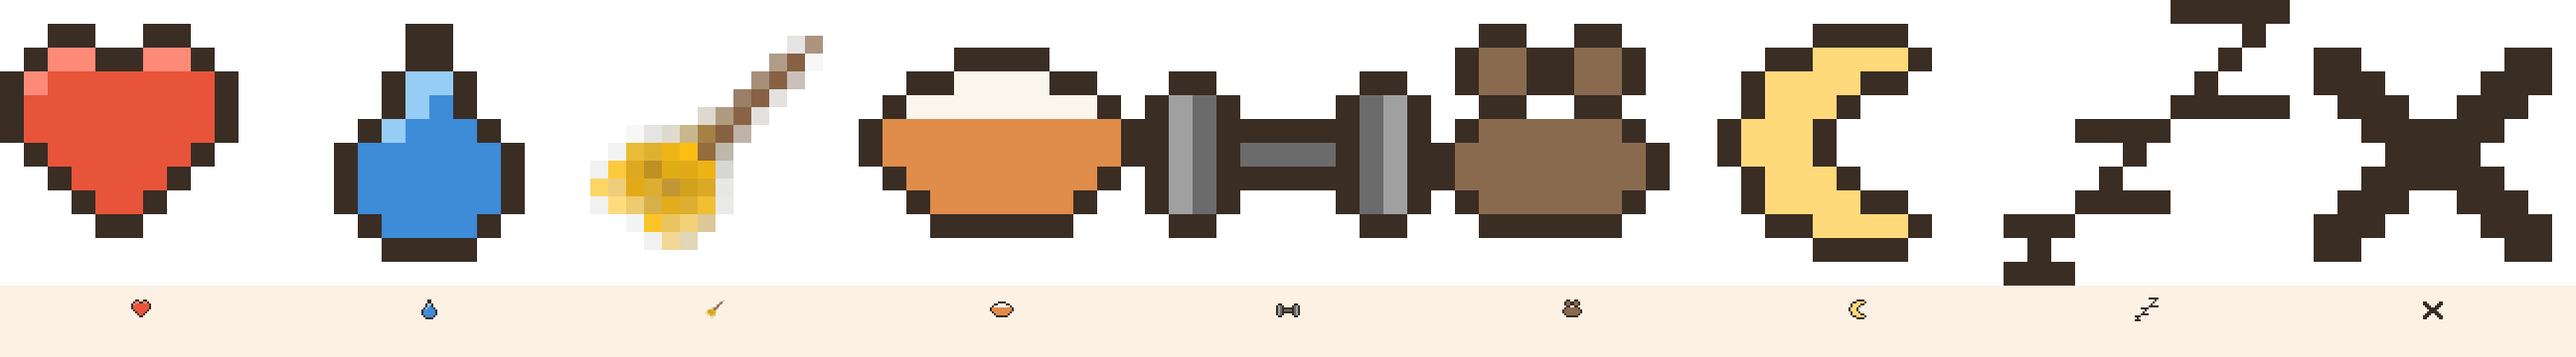
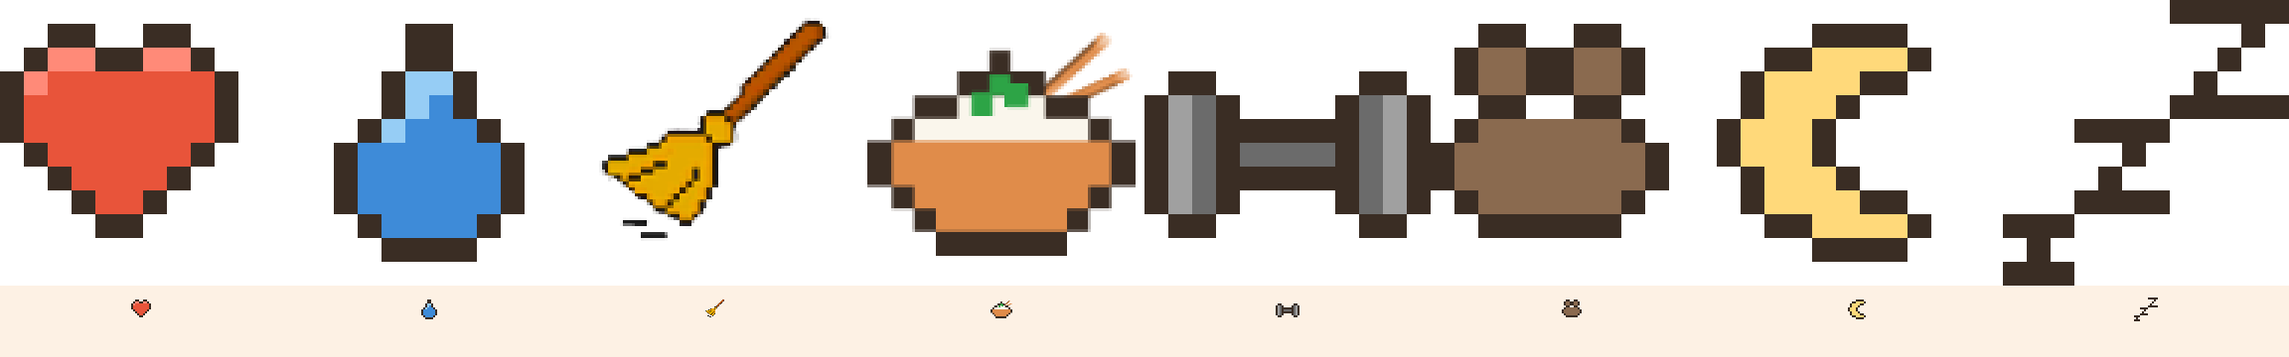
Las cinco siluetas se van con sus dibujos, y la equis se borra
Limpieza de las dos cosas que llevaban dias anotadas en TODO.md como
codigo muerto. Ninguna fallaba: las dos MENTIAN, que es peor, porque
quien las lea dentro de seis meses se cree que sirven para algo.

LAS CINCO SILUETAS eran la otra mitad de una retirada a medias. Los 16
PNG de los cuatro cuerpos sobrantes se fueron a _CUARENTENA el
2026-09-09; las REJILLAS no. `pixel/michis.js` siguio cuatro dias
exportando esos mismos cuerpos como texto de 32x32 y compilandose con la
app, y `Tamagotchi.jsx` hacia `MICHIS[estado] ?? MICHIS.kawaii` en cada
render: se leian SIEMPRE y se pintaban NUNCA, porque el dibujo estaba
tras un `!sinMichi` y el unico sitio que monta ese componente pasa
siempre `sinMichi`.

Van a _CUARENTENA/cuerpos-antiguos/, con los dibujos que les
corresponden, y con ellas su generador: generar_michis.py solo hacia eso
y ningun otro script de pixel/ lo importa.

Lo unico VIVO de ese archivo era `TAM = 32`, y no medía lo que parece.
No es el tamaño de un sprite: es el de la REJILLA DEL LCD. Que el
cuadrito de la rejilla y el pixel del michi midan igual es la estetica
entera del aparato -lo dice la cabecera del componente desde el primer
dia-, asi que el 32 se queda ahi como numero propio y con su porque
escrito al lado, que es donde tenia que haber estado siempre.

Con el sprite se van tres props que solo existian para decirle al
componente que NO dibujara: `estado`, `cara` y `sinMichi`. Eso deshace
de paso la trampa que ya mordio el 2026-09-12 -un `estado` que
[…]

diff --git a/src/mascota/TamagotchiPNG.jsx b/src/mascota/TamagotchiPNG.jsx
@@ -54,12 +54,14 @@ export const ESTILOS = ['pixel'];
    conservando el relieve, los mofletes y los ojos.
 
    Se llamaba `MICHIS` hasta el 2026-09-12, y ese era el problema:
-   `pixel/michis.js` exporta OTRO `MICHIS` que no tiene nada que ver
-   —son las cinco siluetas de cuerpo de antes del replanteamiento del
-   michi, ver ahi— y `Tamagotchi.jsx` importa aquel mientras Ajustes y
-   Lore importan este. Dos cosas distintas con el mismo nombre en el
-   mismo arbol de archivos es de las que muerden a los seis meses,
-   buscando una y encontrando la otra. */
+   `pixel/michis.js` exportaba OTRO `MICHIS` que no tenia nada que ver
+   —las cinco siluetas de cuerpo de antes del replanteamiento— y
+   `Tamagotchi.jsx` importaba aquel mientras Ajustes y Lore importaban
+   este. Dos cosas distintas con el mismo nombre en el mismo arbol es
+   de las que muerden a los seis meses, buscando una y encontrando la
+   otra. Aquel archivo se fue a `_CUARENTENA/cuerpos-antiguos/` el
+   2026-09-13, asi que la colision ya no puede volver; el nombre largo
+   se queda porque describe mejor lo que hay: colores, no michis. */
 export const COLORES_MICHI = ['naranja', 'gris', 'blanco'];
 export const COLORES = ['naranja', 'rojo', 'amarillo', 'verde', 'azul', 'blanco', 'negro'];
 /* El michi arranca GRIS porque Ninja es gris (ver `LORE.md`). El huevo
@@ -113,17 +115,19 @@ export default function TamagotchiPNG({
   /* OJO: `estado` es el NOMBRE DEL ARCHIVO del michi, no un humor ni un
      cuerpo. `michi` -> michi.png / michi-gris.png / michi-blanco.png.
 
-     Se llama asi por herencia del componente SVG de al lado, donde SI es
-     otra cosa: alli `estado` es la clave de una tabla de sprites
-     (`MICHIS[estado]` en `Tamagotchi.jsx`) y `kawaii` es una clave
-     valida. Aqui `kawaii` no puede funcionar NUNCA, porque no existe
-     ningun `kawaii*.png`: la cadena de respaldo se lo come y acaba
+     Se llamaba asi por herencia del componente SVG de al lado, donde
+     `estado` era la clave de una tabla de sprites y `kawaii` una clave
+     valida. Aqui `kawaii` no podia funcionar NUNCA, porque no existe
+     ningun `kawaii*.png`: la cadena de respaldo se lo comia y acababa
      cayendo a `michi.png`, que es el naranja.
 
      Era el valor por defecto hasta el 2026-09-12, y eso significa que
      cualquiera que olvidara pasar `estado` perdia el color elegido sin
      enterarse. Le paso a la bienvenida. Ahora el defecto es `michi`,
-     que es el unico dibujo que existe seguro para los tres colores. */
+     que es el unico dibujo que existe seguro para los tres colores.
+
+     El equivoco ya no puede repetirse: desde el 2026-09-13 el
+     componente de al lado no recibe `estado` ni dibuja sprites. */
   estado = 'michi',
   size = 230,
   iconos = [],
@@ -191,14 +195,14 @@ export default function TamagotchiPNG({
          style={{ width: size, height: size * (1024 / 751) }}>
       {sinHuevo ? (
         <div className="mf-tamapng-huevo">
-          {/* `kawaii` literal, y NO el `estado` de arriba: este es el
-              componente SVG, donde `estado` es la clave de la tabla de
-              sprites y no un nombre de archivo. Pasarle `michi` caeria
-              igualmente al `?? MICHIS.kawaii` del otro lado, pero por
-              accidente. Va `sinMichi`, asi que de esa tabla solo se usa
-              la carcasa: el gato lo pone la imagen de encima. */}
-          <Tamagotchi estado="kawaii" size={size} iconos={iconos}
-                      puntos={puntos} dormido={dormido} sinMichi {...resto} />
+          {/* Solo la carcasa: el gato lo pone la imagen de encima.
+              Hasta el 2026-09-13 habia que decirlo con dos props —un
+              `estado="kawaii"` literal, clave de una tabla de sprites
+              que ya no existe, y un `sinMichi` para que no la pintara—.
+              Ahora ese componente no sabe dibujar michis y no hace
+              falta pedirselo. */}
+          <Tamagotchi size={size} iconos={iconos}
+                      puntos={puntos} dormido={dormido} {...resto} />
         </div>
       ) : (
         <img className="mf-tamapng-huevo" src={rutaHuevo(aparato)} alt=""

diff --git a/src/mascota/Tamagotchi.jsx b/src/mascota/Tamagotchi.jsx
@@ -10,7 +10,6 @@
    pixelada encima, que es justo lo que no queremos.
    ============================================================ */
 
-import { MICHIS, PALETA, TAM } from '../../pixel/michis.js';
 import './tamagotchi.css';
 
 /* --- carcasa --- */
@@ -25,31 +24,34 @@ const BANDA = '#EFE3B0';      // banda de iconos, amarillenta
 const BANDA_PIE = '#F2650F';
 
 /* Geometría. El michi manda: 32 píxeles a paso 3,4 son 108,8, y todo
-   lo demás se construye alrededor. */
+   lo demás se construye alrededor.
+
+   TAM venía de `pixel/michis.js` (en `_CUARENTENA/cuerpos-antiguos/`
+   desde el 2026-09-13). Se queda aquí como número propio porque ya no
+   mide un sprite —este componente no dibuja ninguno— sino la REJILLA
+   del LCD: 32 cuadritos de lado, al mismo paso que tendría el píxel de
+   un michi. Esa coincidencia es la estética entera, ver la cabecera. */
+const TAM = 32;
 const PX = 3.4;
 const LADO = TAM * PX;
 const PANT = { x: 46, y: 66, w: 128, h: 162 };
 const BANDA_ALTA = 16;
 const BANDA_BAJA = 19;
 
+/* Esto dibuja LA CARCASA Y NADA MAS: el michi lo pone una imagen
+   encima, y por eso no hay aqui ni sprite ni `estado` ni `cara`.
+
+   Hasta el 2026-09-13 si los habia: se leian siempre y se pintaban
+   nunca, porque el dibujo estaba tras un `!sinMichi` y el unico sitio
+   que monta este componente —el respaldo de `TamagotchiPNG` para
+   cuando falta el PNG del huevo— pasaba siempre `sinMichi`. Con el
+   sprite fuera, el prop sobra: ya no hay otra cosa que hacer. */
 export default function Tamagotchi({
-  estado = 'kawaii',
-  cara = 'neutro',
   size = 230,
   iconos = [],
   puntos = 0,
   dormido = false,
-  sinMichi = false,   // dibuja solo la carcasa: el michi lo pone una imagen encima
 }) {
-  /* Las cinco siluetas de cuerpo retiradas el 2026-09-09, y esta linea
-     es la unica que las menciona. Se lee siempre y se PINTA nunca: el
-     dibujo esta detras de `!sinMichi` (mas abajo) y el unico sitio que
-     monta este componente —el respaldo de `TamagotchiPNG` para cuando
-     falta el PNG del huevo— pasa siempre `sinMichi`. Ver el aviso de
-     `pixel/michis.js`. `kawaii` como red es el cuerpo «normal» de
-     entonces, no un humor. */
-  const sprite = MICHIS[estado] ?? MICHIS.kawaii;
-
   const zonaY = PANT.y + BANDA_ALTA;
   const zonaAlto = PANT.h - BANDA_ALTA - BANDA_BAJA;
   const x0 = PANT.x + (PANT.w - LADO) / 2;
@@ -58,14 +60,17 @@ export default function Tamagotchi({
   const cols = Math.ceil(PANT.w / PX);
   const filas = Math.ceil(zonaAlto / PX);
 
+  /* El SVG va DECORATIVO (`aria-hidden`), igual que el `<img alt="">`
+     al que sustituye: quien lo monta ya pone el michi aparte. Antes
+     llevaba `role="img"` con una etiqueta que nombraba el sprite —y en
+     castellano, en una app que habla cinco lenguas—. */
   return (
     <svg
       className={`mf-tama ${dormido ? 'dormido' : ''}`}
       width={size}
       height={size * (300 / 220)}
       viewBox="0 0 220 300"
-      role="img"
-      aria-label={`Michi ${estado}, ${cara}`}
+      aria-hidden="true"
     >
       <defs>
         <linearGradient id="mf-shell" x1="0.2" y1="0" x2="0.7" y2="1">
@@ -160,20 +165,6 @@ export default function Tamagotchi({
             Fitness Points
           </text>
         </g>
-
-        {/* el michi */}
-        {!sinMichi && (
-        <g className="mf-tama-michi" clipPath="url(#mf-clip-zona)">
-          {sprite.map((fila, y) =>
-            [...fila].map((ch, x) =>
-              ch === '.' ? null : (
-                <rect key={`${x}-${y}`} x={x0 + x * PX} y={y0 + y * PX}
-                      width={PX} height={PX} fill={PALETA[ch]} />
-              )
-            )
-          )}
-        </g>
-        )}
 
         {dormido && (
           <text className="mf-tama-zzz" x={PANT.x + 104} y={zonaY + 46}

diff --git a/src/mascota/anillos.js b/src/mascota/anillos.js
@@ -39,8 +39,10 @@
    con manual de papel y esto no: el botón derecho, la vuelta sola a los
    ocho segundos (`ESPERA_MS`), y tocar fuera. Lo que desapareció es el
    icono de SALIR dentro del anillo, que sobra cuando hay un botón
-   dedicado a cerrar. Su dibujo sigue en `pixel/iconos_anillo.py` por si
-   vuelve.
+   dedicado a cerrar. Su dibujo se retiró el 2026-09-13 —la rejilla de
+   `pixel/iconos_anillo.py`, el PNG y el rótulo en las cinco lenguas—:
+   estaba en el historial de git, que es donde tiene que esperar una
+   equis, y no en la carpeta de iconos vivos fingiendo que se usa.
    ============================================================ */
 
 /* Vuelta sola a neutral. Ocho segundos es lo que tarda alguien en

diff --git a/src/i18n/th.js b/src/i18n/th.js
@@ -282,7 +282,6 @@ export default {
     mimar: 'ลูบ',
     agua: 'น้ำ',
     limpiar: 'ทำความสะอาด',
-    salir: 'ออก',
     comida: 'อาหาร',
     entreno: 'ออกกำลังกาย',
     pasos: 'ก้าว',

diff --git a/src/i18n/ja.js b/src/i18n/ja.js
@@ -282,7 +282,6 @@ export default {
     mimar: 'なでる',
     agua: 'みず',
     limpiar: 'そうじ',
-    salir: 'とじる',
     comida: 'しょくじ',
     entreno: 'うんどう',
     pasos: 'ほすう',

diff --git a/src/i18n/zh.js b/src/i18n/zh.js
@@ -281,7 +281,6 @@ export default {
     mimar: '摸摸',
     agua: '喝水',
     limpiar: '打扫',
-    salir: '退出',
     comida: '饮食',
     entreno: '运动',
     pasos: '步数',

diff --git a/src/i18n/es.js b/src/i18n/es.js
@@ -293,7 +293,6 @@ export default {
     mimar: 'Mimar',
     agua: 'Agua',
     limpiar: 'Limpiar',
-    salir: 'Salir',
     comida: 'Comida',
     entreno: 'Entreno',
     pasos: 'Pasos',

diff --git a/src/i18n/en.js b/src/i18n/en.js
@@ -287,7 +287,6 @@ export default {
     mimar: 'Pet',
     agua: 'Water',
     limpiar: 'Clean',
-    salir: 'Exit',
     comida: 'Food',
     entreno: 'Workout',
     pasos: 'Steps',

diff --git a/pixel/iconos_anillo.py b/pixel/iconos_anillo.py
@@ -211,20 +211,6 @@ ICONOS = {
         ".#..........",
         "###.........",
     ],
-    "salir": [
-        "............",
-        "............",
-        ".##......##.",
-        ".###....###.",
-        "..###..###..",
-        "...######...",
-        "....####....",
-        "...######...",
-        "..###..###..",
-        ".###....###.",
-        ".##......##.",
-        "............",
-    ],
 }
 
 

diff --git a/SESSION_MAP.md b/SESSION_MAP.md
@@ -752,3 +752,85 @@ borre ni se reduzca nada, que tal como esta, esta bien. Lo que hay que
 llevar a esa conversacion no es una lista de recortes, sino el mapa de
 lo que la app pide entender: cuantos conceptos hay, cuales se explican
 solos en la pantalla y cuales hay que deducir.
+
+## 2026-09-13
+- Contexto: Alberto vuelve al portatil de casa despues de trabajar en el
+  otro. Se pone al dia (4 commits del 12), y pide limpiar el codigo
+  muerto que quedaba anotado en `TODO.md`: las cinco siluetas y
+  `salir.png`.
+
+### Las cinco siluetas, la otra mitad
+
+Los 16 PNG de los cuatro cuerpos sobrantes se fueron a `_CUARENTENA/` el
+2026-09-09. Las REJILLAS no: `pixel/michis.js` siguio cuatro dias
+exportando esos mismos cinco cuerpos como texto de 32x32, y
+compilandose con la app. `Tamagotchi.jsx` hacia `MICHIS[estado] ??
+MICHIS.kawaii` en cada render: se leian siempre y se pintaban NUNCA,
+porque el dibujo estaba tras un `!sinMichi` y el unico sitio que monta
+ese componente pasa siempre `sinMichi`.
+
+Van a `_CUARENTENA/cuerpos-antiguos/`, con los dibujos, y con ellas su
+generador: `generar_michis.py` solo hacia eso —los PNG por estado, la
+hoja de contactos y el propio `michis.js`— y ningun otro script de
+`pixel/` lo importa.
+
+**Lo unico vivo de ese archivo era `TAM = 32`**, y no medía lo que
+parece. No es el tamaño de un sprite: es el de la REJILLA DEL LCD. Que
+el cuadrito de la rejilla y el pixel del michi midan igual es la
+estetica entera del aparato —lo dice la cabecera del componente desde el
+primer dia—, asi que el 32 se queda en `Tamagotchi.jsx` como numero
+propio, con su porque al lado.
+
+Y con el sprite se fueron tres props que solo existian para decirle al
+componente que NO dibujara: `estado`, `cara` y `sinMichi`. Eso deshace
+de paso la trampa que ya mordio una vez el 2026-09-12 —un `estado`
+que significaba una cosa en el componente SVG y otra en el de PNG, y que
+dejo la bienvenida pintando siempre el michi naranja en produccion—:
+ahora solo hay un `estado` en todo el arbol.
+
+La etiqueta de accesibilidad decia «Michi kawaii, neutro»: en
+castellano, en una app que habla cinco lenguas, y describiendo algo que
+no se pintaba. El SVG pasa a `aria-hidden`, que es lo que corresponde a
+lo que sustituye —un `<img alt="">`— porque el michi lo pone otra
+imagen encima.
+
+### salir.png, borrado y no guardado
+
+El PNG, su rejilla en `iconos_anillo.py` y el rotulo `anillo.salir` en
+las cinco lenguas. **Borrado del todo, no movido a cuarentena, y a
+proposito**: es una equis de 12x12 que se rehace en dos minutos y el
+historial de git es sitio de sobra. En `_CUARENTENA/` va lo que costaria
+recuperar, no todo lo que existio alguna vez; si entra cualquier cosa,
+deja de ser una carpeta que se pueda leer.
+
+Se quedo sin sitio el 2026-09-12, cuando el boton derecho paso a cerrar
+el anillo. Llevaba un dia en la carpeta de iconos vivos fingiendo que se
+usaba.
+
+### Lo que se comprobo antes de dar por bueno el borrado
+
+- Que `anillo.salir` no lo pedia ningun `t(...)`: los rotulos del anillo
+  salen de `ANILLO` en `anillos.js`, y ahi no esta.
+- Que los ocho iconos que quedan se regeneran **byte a byte identicos**
+  (`python pixel/iconos_anillo.py --hoja`). Por eso `CACHE` SE QUEDA EN
+  v5: lo que tapa la cache son los archivos modificados, y aqui solo hay
+  uno borrado. Lo dice la propia `pruebas/cache-sw.mjs`.
+- Que la hoja de contacto se regenera tambien. Se le olvidaba facil —va
+  detras de `--hoja`— y una hoja con un icono que ya no existe es
+  exactamente el problema de «los documentos que mentian» del dia
+  anterior, en imagen.
+- Y el componente que se toco **en el navegador**, no solo compilando:
+  el respaldo en SVG solo sale si falla `huevo.png`, asi que se forzo el
+  error a mano. Dibuja carcasa, LCD, banda y los tres botones, con el
+  michi encima; `aria-hidden` puesto, `role` fuera, cero errores en
+  consola. Un respaldo que nadie ha visto renderizar es un respaldo
+  roto, que es la leccion de PromptPay del dia anterior.
+
+### Documentos
+
+`PROTOCOL.md` mandaba generar los sprites con un script que ya no esta
+ahi; ahora la regla es generica (no editar a mano lo generado, cada
+archivo dice quien lo hace) y el comando que queda es el de los iconos.
+`DECISIONS.md` afirmaba en presente que «el michi sigue siendo datos, no
+una imagen»: se marca como dejo de ser verdad sin borrar la decision,
+que es historia y explica el aparato.
